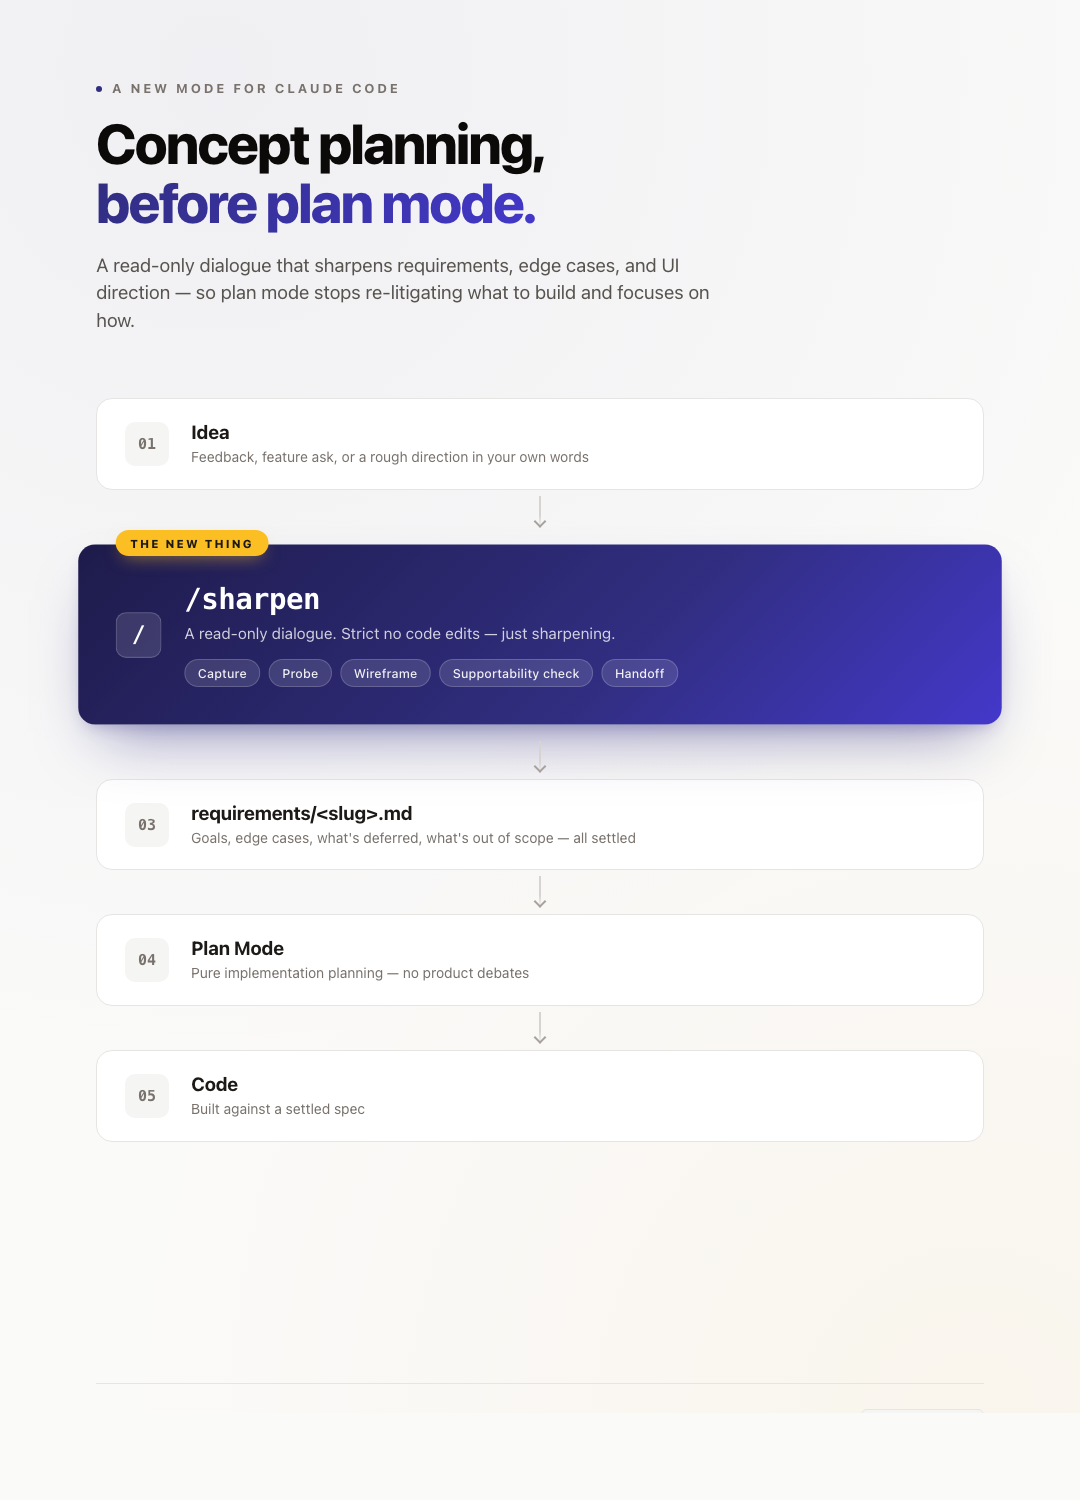
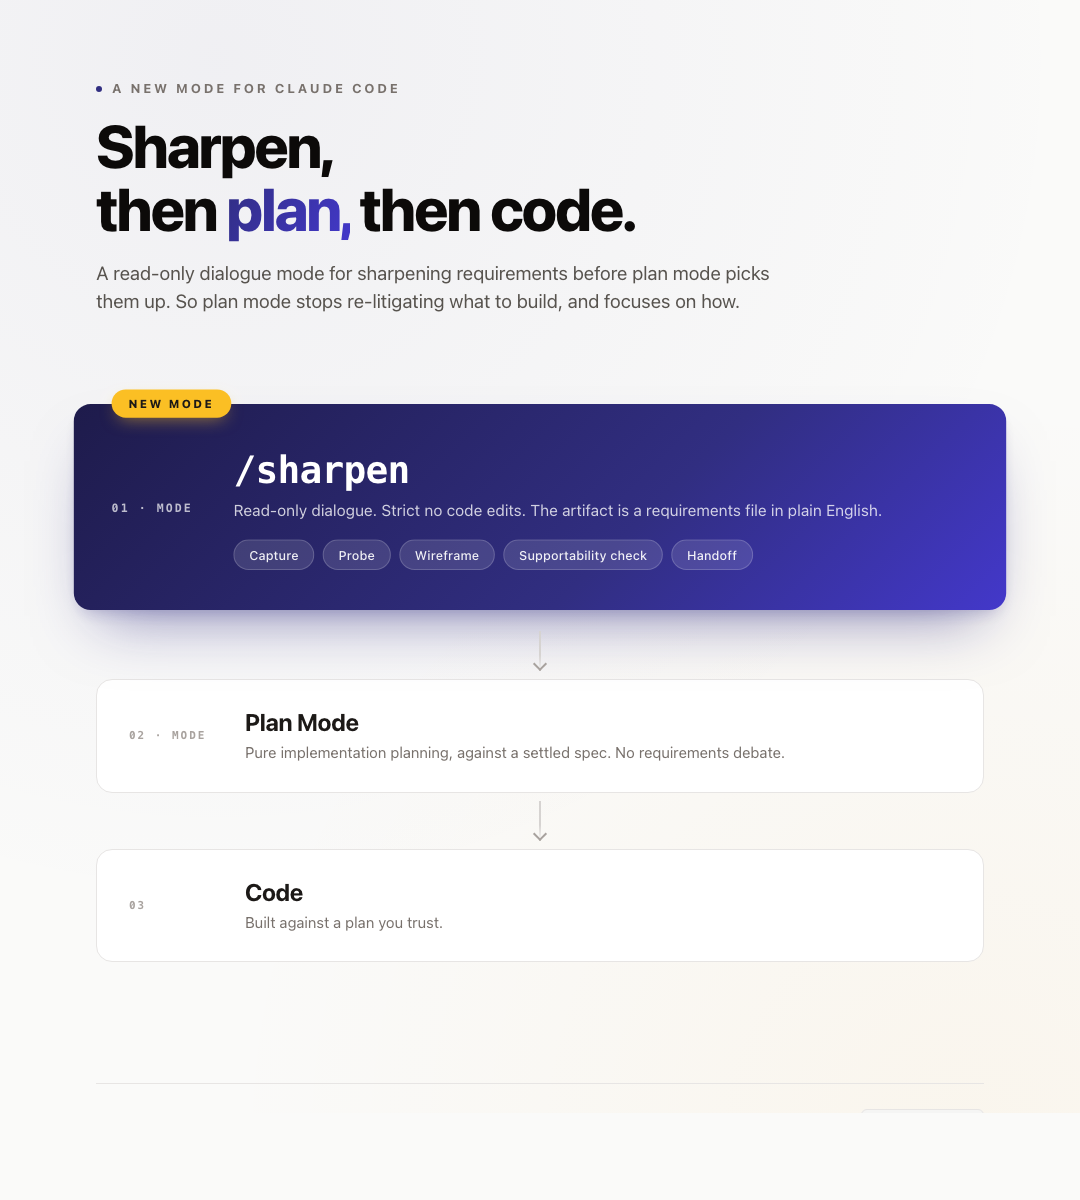
Update hero diagram: 3-box mode framing (sharpen → plan → code)

Changed region(s): [[0.0611, 0.0308, 0.9472, 0.6783], [0.1833, 0.7092, 0.3361, 0.7708], [0.5806, 0.6167, 0.7028, 0.6475]]

diff --git a/images/post-hero.html b/images/post-hero.html
@@ -2,10 +2,10 @@
 <html lang="en">
 <head>
 <meta charset="UTF-8">
-<title>Concept-planning before plan mode</title>
+<title>A new mode for Claude Code</title>
 <link rel="preconnect" href="https://fonts.googleapis.com">
 <link rel="preconnect" href="https://fonts.gstatic.com" crossorigin>
-<link href="https://fonts.googleapis.com/css2?family=Inter:wght@400;500;600;700;800&family=JetBrains+Mono:wght@500&display=swap" rel="stylesheet">
+<link href="https://fonts.googleapis.com/css2?family=Inter:wght@400;500;600;700;800&family=JetBrains+Mono:wght@500;600&display=swap" rel="stylesheet">
 <style>
   *, *::before, *::after { box-sizing: border-box; }
   html, body { margin: 0; padding: 0; }
@@ -18,7 +18,7 @@
   }
   .frame {
     width: 1080px;
-    min-height: 1500px;
+    min-height: 1200px;
     padding: 80px 96px 72px;
     margin: 0 auto;
     background: #fafaf9;
@@ -43,7 +43,7 @@
     vertical-align: middle; margin-right: 10px; margin-bottom: 2px;
   }
   .title {
-    font-size: 56px;
+    font-size: 60px;
     font-weight: 800;
     letter-spacing: -0.035em;
     color: #0c0a09;
@@ -61,7 +61,7 @@
     font-size: 19px;
     color: #57534e;
     margin-top: 20px;
-    max-width: 620px;
+    max-width: 680px;
     line-height: 1.45;
   }
 
@@ -71,56 +71,53 @@
     flex-direction: column;
     align-items: stretch;
     gap: 0;
-    margin-top: 8px;
+    margin-top: 20px;
   }
   .step {
     background: #ffffff;
     border: 1px solid #e7e5e4;
     border-radius: 16px;
-    padding: 22px 28px;
+    padding: 28px 32px;
     display: flex;
     align-items: center;
-    gap: 22px;
+    gap: 24px;
   }
-  .step-num {
-    flex: 0 0 44px;
-    height: 44px;
-    border-radius: 10px;
-    background: #f5f5f4;
-    color: #78716c;
-    display: flex;
-    align-items: center;
-    justify-content: center;
+  .step-tag {
+    flex: 0 0 auto;
     font-family: 'JetBrains Mono', monospace;
+    font-size: 11px;
     font-weight: 600;
-    font-size: 15px;
+    color: #a8a29e;
+    text-transform: uppercase;
+    letter-spacing: 0.18em;
+    min-width: 92px;
   }
   .step-body { flex: 1; }
   .step-title {
-    font-size: 19px;
+    font-size: 24px;
     font-weight: 700;
     color: #1c1917;
-    letter-spacing: -0.01em;
+    letter-spacing: -0.015em;
   }
   .step-desc {
-    font-size: 14px;
+    font-size: 15px;
     color: #78716c;
-    margin-top: 4px;
-    line-height: 1.4;
+    margin-top: 6px;
+    line-height: 1.45;
   }
   .arrow {
     align-self: center;
-    height: 32px;
+    height: 40px;
     width: 2px;
     background: linear-gradient(to bottom, #d6d3d1 0%, #d6d3d1 60%, transparent 100%);
     position: relative;
-    margin: 6px 0;
+    margin: 8px 0;
   }
   .arrow::after {
     content: '';
     position: absolute;
     bottom: 2px; left: 50%;
-    width: 9px; height: 9px;
+    width: 10px; height: 10px;
     border-right: 2px solid #a8a29e;
     border-bottom: 2px solid #a8a29e;
     transform: translateX(-50%) rotate(45deg);
@@ -129,24 +126,20 @@
   .step.hero {
     background: linear-gradient(135deg, #1e1b4b 0%, #312e81 60%, #4338ca 100%);
     border: none;
-    padding: 36px 36px;
+    padding: 42px 36px 38px;
     box-shadow:
       0 30px 60px -24px rgba(49, 46, 129, 0.55),
       0 8px 16px -8px rgba(49, 46, 129, 0.3);
     position: relative;
-    margin: 14px 0;
-    transform: scale(1.04);
+    margin: 18px 0;
+    transform: scale(1.05);
   }
-  .step.hero .step-num {
-    background: rgba(255,255,255,0.12);
-    color: #ffffff;
-    backdrop-filter: blur(4px);
-    font-size: 22px;
-    border: 1px solid rgba(255,255,255,0.18);
+  .step.hero .step-tag {
+    color: rgba(255,255,255,0.7);
   }
   .step.hero .step-title {
     color: #ffffff;
-    font-size: 28px;
+    font-size: 36px;
     letter-spacing: -0.02em;
     font-family: 'JetBrains Mono', monospace;
     font-weight: 600;
@@ -154,7 +147,7 @@
   .step.hero .step-desc {
     color: rgba(255,255,255,0.78);
     font-size: 15px;
-    margin-top: 6px;
+    margin-top: 8px;
   }
   .badge {
     position: absolute;
@@ -162,25 +155,25 @@
     left: 36px;
     background: #fbbf24;
     color: #1c1917;
-    padding: 6px 14px;
+    padding: 7px 16px;
     border-radius: 999px;
     font-size: 11px;
     font-weight: 800;
-    letter-spacing: 0.18em;
+    letter-spacing: 0.2em;
     text-transform: uppercase;
     box-shadow: 0 6px 16px -6px rgba(251, 191, 36, 0.6);
   }
   .phase-pills {
     display: flex;
     gap: 8px;
-    margin-top: 14px;
+    margin-top: 16px;
     flex-wrap: wrap;
   }
   .pill {
     background: rgba(255,255,255,0.12);
     border: 1px solid rgba(255,255,255,0.18);
     color: rgba(255,255,255,0.92);
-    padding: 5px 12px;
+    padding: 6px 14px;
     border-radius: 999px;
     font-size: 12px;
     font-weight: 500;
@@ -188,7 +181,7 @@
   }
 
   .footer {
-    margin-top: 60px;
+    margin-top: 56px;
     padding-top: 28px;
     border-top: 1px solid #e7e5e4;
     display: flex;
@@ -213,26 +206,17 @@
 <div class="frame">
   <div class="header">
     <div class="eyebrow"><span class="dot"></span>A new mode for Claude Code</div>
-    <h1 class="title">Concept planning,<br><em>before plan mode.</em></h1>
-    <div class="subtitle">A read-only dialogue that sharpens requirements, edge cases, and UI direction — so plan mode stops re-litigating what to build and focuses on how.</div>
+    <h1 class="title">Sharpen,<br>then <em>plan,</em> then code.</h1>
+    <div class="subtitle">A read-only dialogue mode for sharpening requirements before plan mode picks them up. So plan mode stops re-litigating what to build, and focuses on how.</div>
   </div>
 
   <div class="flow">
-    <div class="step">
-      <div class="step-num">01</div>
-      <div class="step-body">
-        <div class="step-title">Idea</div>
-        <div class="step-desc">Feedback, feature ask, or a rough direction in your own words</div>
-      </div>
-    </div>
-    <div class="arrow"></div>
-
     <div class="step hero">
-      <span class="badge">The new thing</span>
-      <div class="step-num">/</div>
+      <span class="badge">New mode</span>
+      <div class="step-tag">01 · Mode</div>
       <div class="step-body">
         <div class="step-title">/sharpen</div>
-        <div class="step-desc">A read-only dialogue. Strict no code edits — just sharpening.</div>
+        <div class="step-desc">Read-only dialogue. Strict no code edits. The artifact is a requirements file in plain English.</div>
         <div class="phase-pills">
           <span class="pill">Capture</span>
           <span class="pill">Probe</span>
@@ -245,28 +229,19 @@
     <div class="arrow"></div>
 
     <div class="step">
-      <div class="step-num">03</div>
-      <div class="step-body">
-        <div class="step-title">requirements/&lt;slug&gt;.md</div>
-        <div class="step-desc">Goals, edge cases, what's deferred, what's out of scope — all settled</div>
-      </div>
-    </div>
-    <div class="arrow"></div>
-
-    <div class="step">
-      <div class="step-num">04</div>
+      <div class="step-tag">02 · Mode</div>
       <div class="step-body">
         <div class="step-title">Plan Mode</div>
-        <div class="step-desc">Pure implementation planning — no product debates</div>
+        <div class="step-desc">Pure implementation planning, against a settled spec. No requirements debate.</div>
       </div>
     </div>
     <div class="arrow"></div>
 
     <div class="step">
-      <div class="step-num">05</div>
+      <div class="step-tag">03</div>
       <div class="step-body">
         <div class="step-title">Code</div>
-        <div class="step-desc">Built against a settled spec</div>
+        <div class="step-desc">Built against a plan you trust.</div>
       </div>
     </div>
   </div>
